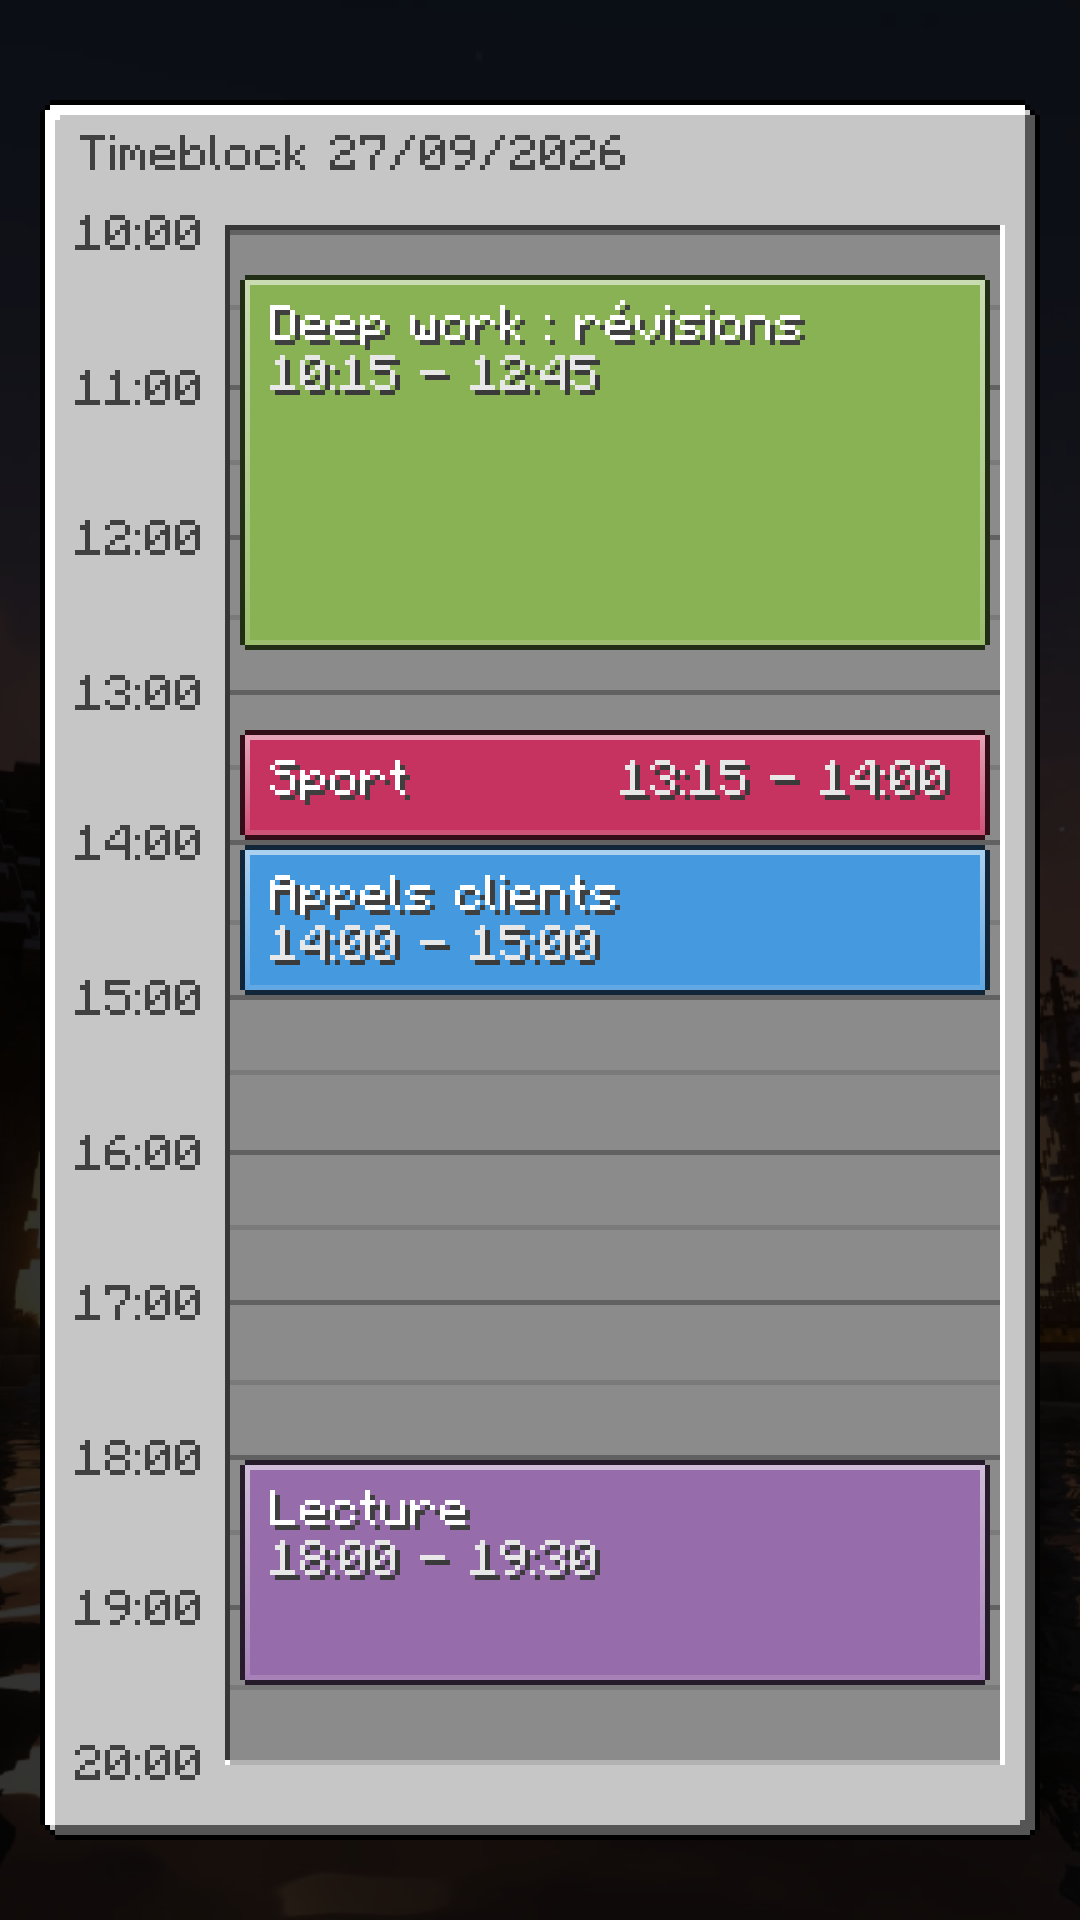
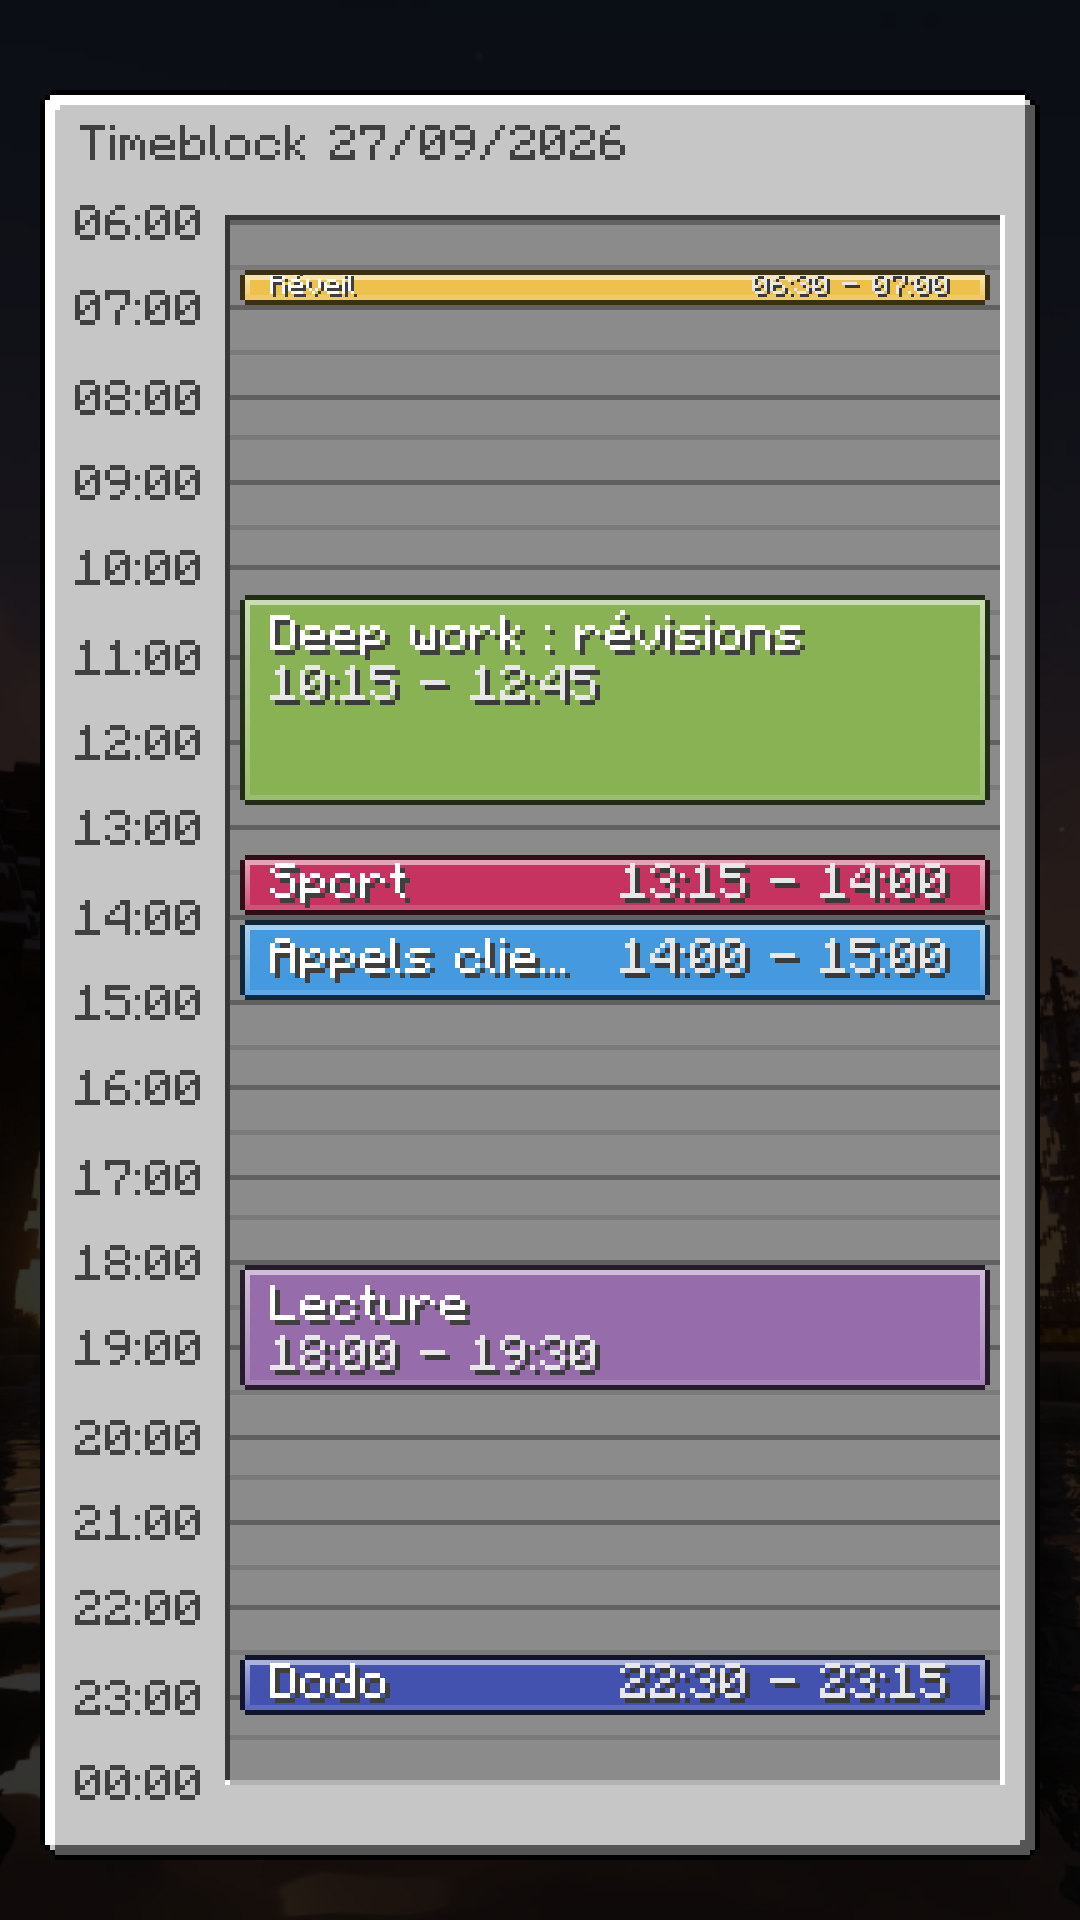
Photo du Timeblock : toute la journée de 6h à minuit dans l'image 9:16
Blocs resserrés à l'échelle ; titre et horaires en plus petit dans les blocs courts.

Claude-Session: https://claude.ai/code/session_019gCBZ2Dy19V3W7UiEquzyT

diff --git a/index.html b/index.html
@@ -1761,7 +1761,7 @@ function renderTimeblock() {
 }
 
 // --- « Photo » : image 1080 x 1920 (9:16) des blocs de la journée, pour un fond d'écran de téléphone ---
-// Dessinée en pixels GUI (216 x 384) puis agrandie x5 ; les heures affichées couvrent les blocs (8 h au minimum).
+// Dessinée en pixels GUI (216 x 384) puis agrandie x5 ; toute la journée de 6 h à minuit tient dans l'image.
 let photoBackground = null;
 function loadPhotoBackground() {
   photoBackground ||= new Promise(res => { const img = new Image(); img.onload = () => res(img); img.onerror = () => res(null); img.src = 'assets/background.webp'; });
@@ -1787,12 +1787,9 @@ async function timeblockPhoto() {
     ctx.fillRect(0, 0, cv.width, cv.height);
   }
   const blocks = tbBlocks();
-  let start = blocks.length ? Math.floor(Math.min(...blocks.map(b => b.debut)) / 60) * 60 : 8 * 60;
-  let end = blocks.length ? Math.ceil(Math.max(...blocks.map(b => b.fin)) / 60) * 60 : 16 * 60;
-  if (end - start < 8 * 60) end = Math.min(TB_END, start + 8 * 60);
-  if (end - start < 8 * 60) start = Math.max(TB_START, end - 8 * 60);
+  const start = TB_START, end = TB_END;   // toute la journée (6 h - minuit), resserrée pour tenir en hauteur
 
-  const px = 8, py = 20, pw = W - 16, ph = H - 36;   // marges pour les zones système du téléphone
+  const px = 8, py = 18, pw = W - 16, ph = H - 30;   // marges pour les zones système du téléphone
   drawPanel(ctx, px, py, pw, ph, S);
   drawText(ctx, font, 'Timeblock ' + tb.date, px + 8, py + 7, '#404040', S);
   const grid = { x: px + 38, y: py + 26, w: pw - 38 - 8, h: ph - 26 - 16 };
@@ -1803,7 +1800,7 @@ async function timeblockPhoto() {
   fr(grid.x - 1, grid.y - 1, grid.w + 1, grid.h + 1, '#373737');
   fr(grid.x, grid.y, grid.w, grid.h, '#8B8B8B');
   for (let m = start; m <= end; m += 30) fr(grid.x, Math.round(yOf(m)), grid.w, 1, m % 60 ? 'rgba(0,0,0,0.12)' : 'rgba(0,0,0,0.3)');
-  for (let m = start; m <= end; m += 60) drawText(ctx, font, fmtMin(m), px + 7, Math.round(yOf(m)) - 3, '#404040', S);
+  for (let m = start; m <= end; m += 60) drawText(ctx, font, fmtMin(m % 1440), px + 7, Math.round(yOf(m)) - 3, '#404040', S);
   blocks.forEach((b, i) => {
     const y1 = Math.round(yOf(b.debut)), h = Math.round(yOf(b.fin)) - y1;
     drawColorBlock(ctx, grid.x + 2, y1 + 1, grid.w - 4, h - 1, TB_COLORS[(b.couleur ?? i) % TB_COLORS.length], S);
@@ -1812,14 +1809,14 @@ async function timeblockPhoto() {
     ctx.rect((grid.x + 3) * S, (y1 + 2) * S, (grid.w - 6) * S, (h - 3) * S);
     ctx.clip();
     const hours = `${fmtMin(b.debut)} - ${fmtMin(b.fin)}`, tx = grid.x + 8, maxW = grid.w - 18;
-    if (h >= 28) {
-      drawText(ctx, font, fitText(b.titre, maxW), tx, y1 + 7, '#FFFFFF', S, true);
-      drawText(ctx, font, hours, tx, y1 + 17, '#E8E8E8', S, true);
-    } else {
-      const ty = h >= 20 ? y1 + 7 : y1 + Math.floor((h - 8) / 2) + 1;
-      const hw = textWidth(font, hours);
-      drawText(ctx, font, fitText(b.titre, maxW - hw - 6), tx, ty, '#FFFFFF', S, true);
-      drawText(ctx, font, hours, tx + maxW - hw, ty, '#E8E8E8', S, true);
+    if (h >= 26) {
+      drawText(ctx, font, fitText(b.titre, maxW), tx, y1 + 5, '#FFFFFF', S, true);
+      drawText(ctx, font, hours, tx, y1 + 15, '#E8E8E8', S, true);
+    } else {   // bloc court : titre et horaires sur une ligne, centrés ; texte plus petit si le bloc est très fin
+      const s2 = h >= 10 ? S : 3, k = S / s2;   // k : pixels GUI de la photo -> pixels du texte réduit
+      const ty = (y1 + (h - 8 / k) / 2) * k, hw = textWidth(font, hours);
+      drawText(ctx, font, fitText(b.titre, maxW * k - hw - 6), tx * k, ty, '#FFFFFF', s2, true);
+      drawText(ctx, font, hours, (tx + maxW) * k - hw, ty, '#E8E8E8', s2, true);
     }
     ctx.restore();
   });
